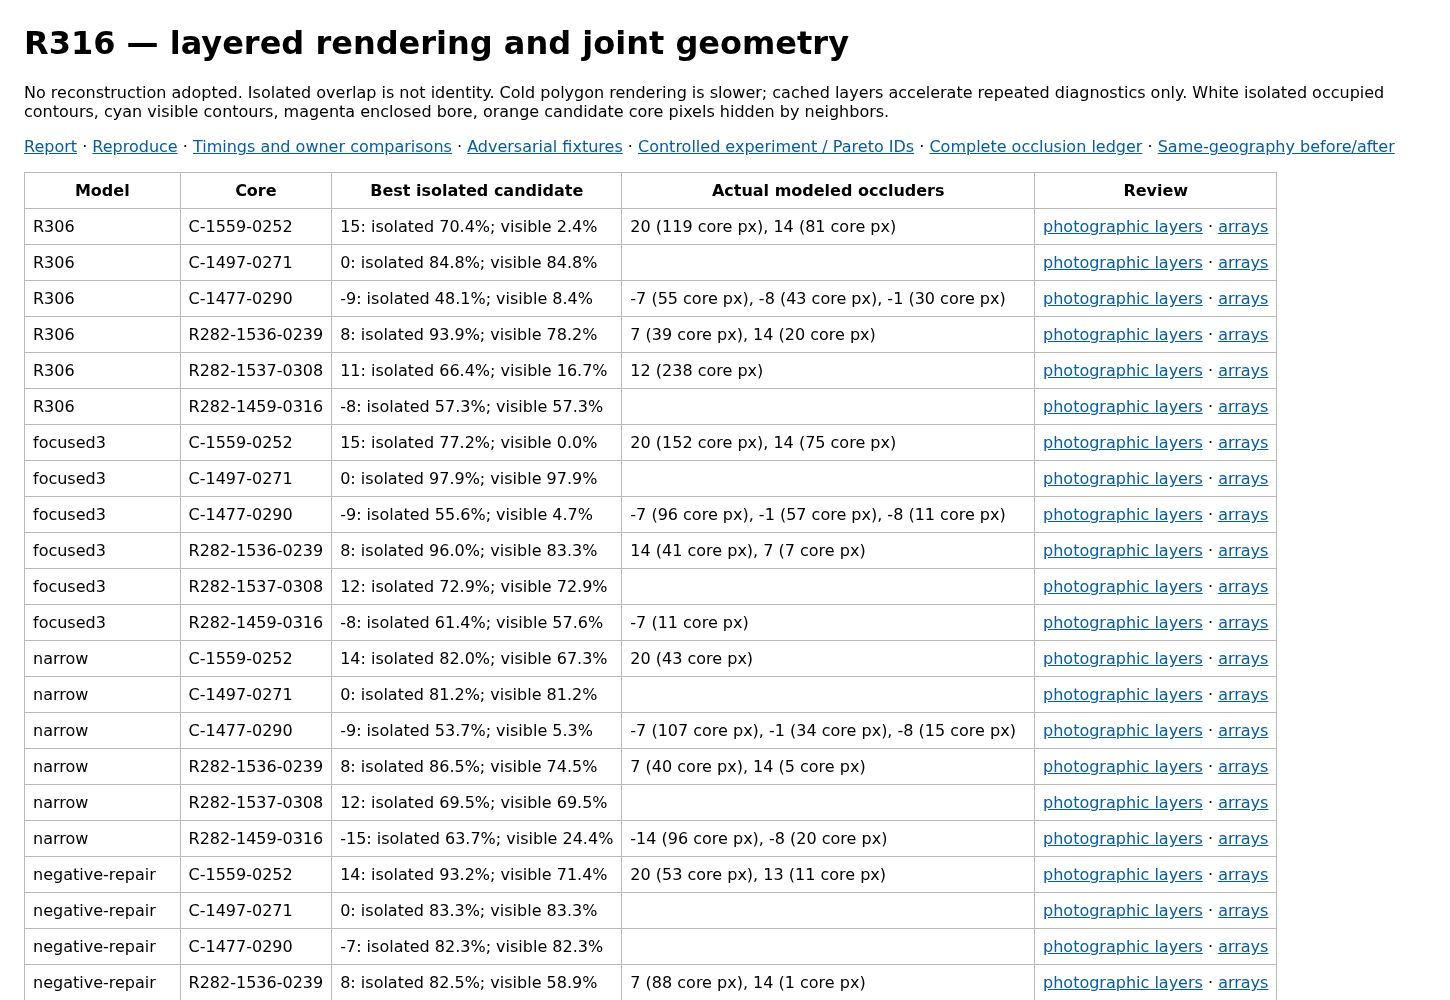
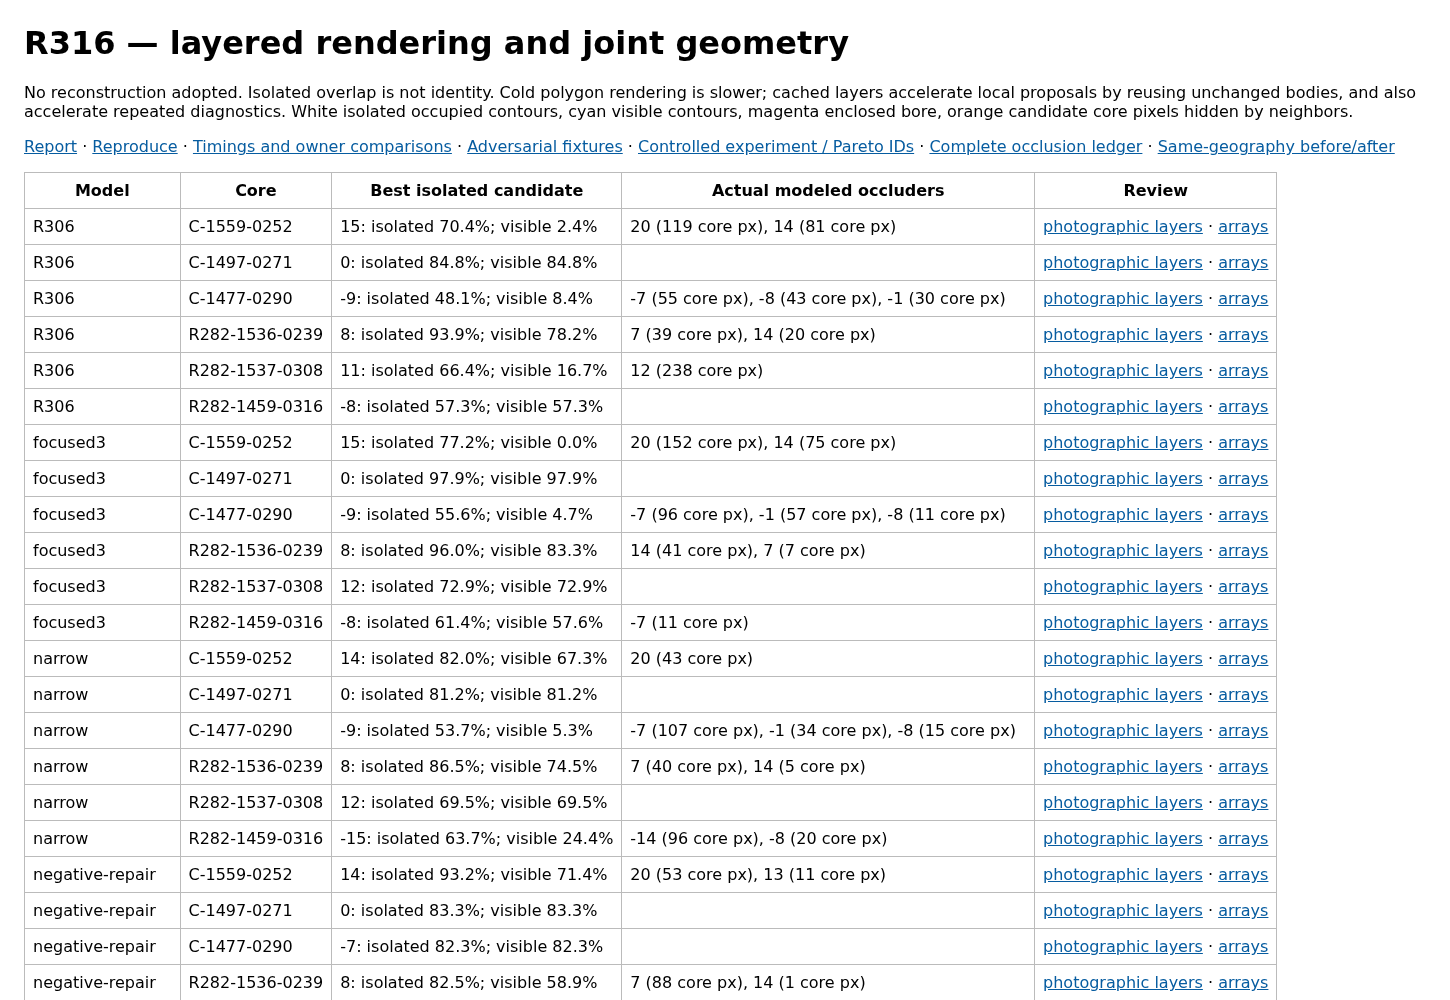
R316: record verified delivery and clarify local layer reuse

Changed region(s): [[0.031, 0.062, 0.9621, 0.124]]

diff --git a/photo2/r316/results/index.html b/photo2/r316/results/index.html
@@ -1,1 +1,1 @@
-<!doctype html><html><head><meta charset="utf-8"><meta name="viewport" content="width=device-width"><title>R316 layered geometry</title><style>body{font:16px system-ui;max-width:1400px;margin:24px}table{border-collapse:collapse}td,th{border:1px solid #bbb;padding:8px}img{max-width:100%}a{color:#065ca0}@media(max-width:700px){table,tr,td{display:block}th{display:none}tr{margin-bottom:16px}body{margin:12px}}</style></head><body><h1>R316 — layered rendering and joint geometry</h1><p>No reconstruction adopted. Isolated overlap is not identity. Cold polygon rendering is slower; cached layers accelerate repeated diagnostics only. White isolated occupied contours, cyan visible contours, magenta enclosed bore, orange candidate core pixels hidden by neighbors.</p><p><a href="../../R316_REPORT.md">Report</a> · <a href="../../R316_REPRODUCE.md">Reproduce</a> · <a href="benchmarks.json">Timings and owner comparisons</a> · <a href="fixtures.json">Adversarial fixtures</a> · <a href="experiment.json">Controlled experiment / Pareto IDs</a> · <a href="ledger.json.gz">Complete occlusion ledger</a> · <a href="review/before-after.png">Same-geography before/after</a></p><table><tr><th>Model</th><th>Core</th><th>Best isolated candidate</th><th>Actual modeled occluders</th><th>Review</th></tr><tr><td>R306</td><td>C-1559-0252</td><td>15: isolated 70.4%; visible 2.4%</td><td>20 (119 core px), 14 (81 core px)</td><td><a href="review/R306-5.png">photographic layers</a> · <a href="review/R306-5.npz">arrays</a></td></tr><tr><td>R306</td><td>C-1497-0271</td><td>0: isolated 84.8%; visible 84.8%</td><td></td><td><a href="review/R306-0.png">photographic layers</a> · <a href="review/R306-0.npz">arrays</a></td></tr><tr><td>R306</td><td>C-1477-0290</td><td>-9: isolated 48.1%; visible 8.4%</td><td>-7 (55 core px), -8 (43 core px), -1 (30 core px)</td><td><a href="review/R306-1.png">photographic layers</a> · <a href="review/R306-1.npz">arrays</a></td></tr><tr><td>R306</td><td>R282-1536-0239</td><td>8: isolated 93.9%; visible 78.2%</td><td>7 (39 core px), 14 (20 core px)</td><td><a href="review/R306-3.png">photographic layers</a> · <a href="review/R306-3.npz">arrays</a></td></tr><tr><td>R306</td><td>R282-1537-0308</td><td>11: isolated 66.4%; visible 16.7%</td><td>12 (238 core px)</td><td><a href="review/R306-4.png">photographic layers</a> · <a href="review/R306-4.npz">arrays</a></td></tr><tr><td>R306</td><td>R282-1459-0316</td><td>-8: isolated 57.3%; visible 57.3%</td><td></td><td><a href="review/R306-2.png">photographic layers</a> · <a href="review/R306-2.npz">arrays</a></td></tr><tr><td>focused3</td><td>C-1559-0252</td><td>15: isolated 77.2%; visible 0.0%</td><td>20 (152 core px), 14 (75 core px)</td><td><a href="review/focused3-5.png">photographic layers</a> · <a href="review/focused3-5.npz">arrays</a></td></tr><tr><td>focused3</td><td>C-1497-0271</td><td>0: isolated 97.9%; visible 97.9%</td><td></td><td><a href="review/focused3-0.png">photographic layers</a> · <a href="review/focused3-0.npz">arrays</a></td></tr><tr><td>focused3</td><td>C-1477-0290</td><td>-9: isolated 55.6%; visible 4.7%</td><td>-7 (96 core px), -1 (57 core px), -8 (11 core px)</td><td><a href="review/focused3-1.png">photographic layers</a> · <a href="review/focused3-1.npz">arrays</a></td></tr><tr><td>focused3</td><td>R282-1536-0239</td><td>8: isolated 96.0%; visible 83.3%</td><td>14 (41 core px), 7 (7 core px)</td><td><a href="review/focused3-3.png">photographic layers</a> · <a href="review/focused3-3.npz">arrays</a></td></tr><tr><td>focused3</td><td>R282-1537-0308</td><td>12: isolated 72.9%; visible 72.9%</td><td></td><td><a href="review/focused3-4.png">photographic layers</a> · <a href="review/focused3-4.npz">arrays</a></td></tr><tr><td>focused3</td><td>R282-1459-0316</td><td>-8: isolated 61.4%; visible 57.6%</td><td>-7 (11 core px)</td><td><a href="review/focused3-2.png">photographic layers</a> · <a href="review/focused3-2.npz">arrays</a></td></tr><tr><td>narrow</td><td>C-1559-0252</td><td>14: isolated 82.0%; visible 67.3%</td><td>20 (43 core px)</td><td><a href="review/narrow-5.png">photographic layers</a> · <a href="review/narrow-5.npz">arrays</a></td></tr><tr><td>narrow</td><td>C-1497-0271</td><td>0: isolated 81.2%; visible 81.2%</td><td></td><td><a href="review/narrow-0.png">photographic layers</a> · <a href="review/narrow-0.npz">arrays</a></td></tr><tr><td>narrow</td><td>C-1477-0290</td><td>-9: isolated 53.7%; visible 5.3%</td><td>-7 (107 core px), -1 (34 core px), -8 (15 core px)</td><td><a href="review/narrow-1.png">photographic layers</a> · <a href="review/narrow-1.npz">arrays</a></td></tr><tr><td>narrow</td><td>R282-1536-0239</td><td>8: isolated 86.5%; visible 74.5%</td><td>7 (40 core px), 14 (5 core px)</td><td><a href="review/narrow-3.png">photographic layers</a> · <a href="review/narrow-3.npz">arrays</a></td></tr><tr><td>narrow</td><td>R282-1537-0308</td><td>12: isolated 69.5%; visible 69.5%</td><td></td><td><a href="review/narrow-4.png">photographic layers</a> · <a href="review/narrow-4.npz">arrays</a></td></tr><tr><td>narrow</td><td>R282-1459-0316</td><td>-15: isolated 63.7%; visible 24.4%</td><td>-14 (96 core px), -8 (20 core px)</td><td><a href="review/narrow-2.png">photographic layers</a> · <a href="review/narrow-2.npz">arrays</a></td></tr><tr><td>negative-repair</td><td>C-1559-0252</td><td>14: isolated 93.2%; visible 71.4%</td><td>20 (53 core px), 13 (11 core px)</td><td><a href="review/negative-repair-5.png">photographic layers</a> · <a href="review/negative-repair-5.npz">arrays</a></td></tr><tr><td>negative-repair</td><td>C-1497-0271</td><td>0: isolated 83.3%; visible 83.3%</td><td></td><td><a href="review/negative-repair-0.png">photographic layers</a> · <a href="review/negative-repair-0.npz">arrays</a></td></tr><tr><td>negative-repair</td><td>C-1477-0290</td><td>-7: isolated 82.3%; visible 82.3%</td><td></td><td><a href="review/negative-repair-1.png">photographic layers</a> · <a href="review/negative-repair-1.npz">arrays</a></td></tr><tr><td>negative-repair</td><td>R282-1536-0239</td><td>8: isolated 82.5%; visible 58.9%</td><td>7 (88 core px), 14 (1 core px)</td><td><a href="review/negative-repair-3.png">photographic layers</a> · <a href="review/negative-repair-3.npz">arrays</a></td></tr><tr><td>negative-repair</td><td>R282-1537-0308</td><td>12: isolated 63.3%; visible 63.3%</td><td></td><td><a href="review/negative-repair-4.png">photographic layers</a> · <a href="review/negative-repair-4.npz">arrays</a></td></tr><tr><td>negative-repair</td><td>R282-1459-0316</td><td>-15: isolated 84.1%; visible 22.4%</td><td>-14 (157 core px), -8 (25 core px)</td><td><a href="review/negative-repair-2.png">photographic layers</a> · <a href="review/negative-repair-2.npz">arrays</a></td></tr><tr><td>positive-recovery</td><td>C-1559-0252</td><td>14: isolated 99.7%; visible 78.6%</td><td>20 (62 core px)</td><td><a href="review/positive-recovery-5.png">photographic layers</a> · <a href="review/positive-recovery-5.npz">arrays</a></td></tr><tr><td>positive-recovery</td><td>C-1497-0271</td><td>0: isolated 85.1%; visible 85.1%</td><td></td><td><a href="review/positive-recovery-0.png">photographic layers</a> · <a href="review/positive-recovery-0.npz">arrays</a></td></tr><tr><td>positive-recovery</td><td>C-1477-0290</td><td>-7: isolated 81.1%; visible 81.1%</td><td></td><td><a href="review/positive-recovery-1.png">photographic layers</a> · <a href="review/positive-recovery-1.npz">arrays</a></td></tr><tr><td>positive-recovery</td><td>R282-1536-0239</td><td>8: isolated 88.9%; visible 77.7%</td><td>7 (38 core px), 14 (4 core px)</td><td><a href="review/positive-recovery-3.png">photographic layers</a> · <a href="review/positive-recovery-3.npz">arrays</a></td></tr><tr><td>positive-recovery</td><td>R282-1537-0308</td><td>12: isolated 63.3%; visible 63.3%</td><td></td><td><a href="review/positive-recovery-4.png">photographic layers</a> · <a href="review/positive-recovery-4.npz">arrays</a></td></tr><tr><td>positive-recovery</td><td>R282-1459-0316</td><td>-15: isolated 83.7%; visible 22.4%</td><td>-14 (157 core px), -8 (24 core px)</td><td><a href="review/positive-recovery-2.png">photographic layers</a> · <a href="review/positive-recovery-2.npz">arrays</a></td></tr><tr><td>joint-recovery</td><td>C-1559-0252</td><td>14: isolated 99.7%; visible 78.6%</td><td>20 (62 core px)</td><td><a href="review/joint-recovery-5.png">photographic layers</a> · <a href="review/joint-recovery-5.npz">arrays</a></td></tr><tr><td>joint-recovery</td><td>C-1497-0271</td><td>0: isolated 87.9%; visible 87.9%</td><td></td><td><a href="review/joint-recovery-0.png">photographic layers</a> · <a href="review/joint-recovery-0.npz">arrays</a></td></tr><tr><td>joint-recovery</td><td>C-1477-0290</td><td>-7: isolated 85.7%; visible 85.1%</td><td>-1 (2 core px)</td><td><a href="review/joint-recovery-1.png">photographic layers</a> · <a href="review/joint-recovery-1.npz">arrays</a></td></tr><tr><td>joint-recovery</td><td>R282-1536-0239</td><td>8: isolated 88.9%; visible 77.7%</td><td>7 (38 core px), 14 (4 core px)</td><td><a href="review/joint-recovery-3.png">photographic layers</a> · <a href="review/joint-recovery-3.npz">arrays</a></td></tr><tr><td>joint-recovery</td><td>R282-1537-0308</td><td>12: isolated 63.3%; visible 63.3%</td><td></td><td><a href="review/joint-recovery-4.png">photographic layers</a> · <a href="review/joint-recovery-4.npz">arrays</a></td></tr><tr><td>joint-recovery</td><td>R282-1459-0316</td><td>-15: isolated 98.6%; visible 3.1%</td><td>-14 (212 core px), -8 (56 core px), -7 (14 core px)</td><td><a href="review/joint-recovery-2.png">photographic layers</a> · <a href="review/joint-recovery-2.npz">arrays</a></td></tr></table><img src="review/before-after.png"></body></html>
+<!doctype html><html><head><meta charset="utf-8"><meta name="viewport" content="width=device-width"><title>R316 layered geometry</title><style>body{font:16px system-ui;max-width:1400px;margin:24px}table{border-collapse:collapse}td,th{border:1px solid #bbb;padding:8px}img{max-width:100%}a{color:#065ca0}@media(max-width:700px){table,tr,td{display:block}th{display:none}tr{margin-bottom:16px}body{margin:12px}}</style></head><body><h1>R316 — layered rendering and joint geometry</h1><p>No reconstruction adopted. Isolated overlap is not identity. Cold polygon rendering is slower; cached layers accelerate local proposals by reusing unchanged bodies, and also accelerate repeated diagnostics. White isolated occupied contours, cyan visible contours, magenta enclosed bore, orange candidate core pixels hidden by neighbors.</p><p><a href="../../R316_REPORT.md">Report</a> · <a href="../../R316_REPRODUCE.md">Reproduce</a> · <a href="benchmarks.json">Timings and owner comparisons</a> · <a href="fixtures.json">Adversarial fixtures</a> · <a href="experiment.json">Controlled experiment / Pareto IDs</a> · <a href="ledger.json.gz">Complete occlusion ledger</a> · <a href="review/before-after.png">Same-geography before/after</a></p><table><tr><th>Model</th><th>Core</th><th>Best isolated candidate</th><th>Actual modeled occluders</th><th>Review</th></tr><tr><td>R306</td><td>C-1559-0252</td><td>15: isolated 70.4%; visible 2.4%</td><td>20 (119 core px), 14 (81 core px)</td><td><a href="review/R306-5.png">photographic layers</a> · <a href="review/R306-5.npz">arrays</a></td></tr><tr><td>R306</td><td>C-1497-0271</td><td>0: isolated 84.8%; visible 84.8%</td><td></td><td><a href="review/R306-0.png">photographic layers</a> · <a href="review/R306-0.npz">arrays</a></td></tr><tr><td>R306</td><td>C-1477-0290</td><td>-9: isolated 48.1%; visible 8.4%</td><td>-7 (55 core px), -8 (43 core px), -1 (30 core px)</td><td><a href="review/R306-1.png">photographic layers</a> · <a href="review/R306-1.npz">arrays</a></td></tr><tr><td>R306</td><td>R282-1536-0239</td><td>8: isolated 93.9%; visible 78.2%</td><td>7 (39 core px), 14 (20 core px)</td><td><a href="review/R306-3.png">photographic layers</a> · <a href="review/R306-3.npz">arrays</a></td></tr><tr><td>R306</td><td>R282-1537-0308</td><td>11: isolated 66.4%; visible 16.7%</td><td>12 (238 core px)</td><td><a href="review/R306-4.png">photographic layers</a> · <a href="review/R306-4.npz">arrays</a></td></tr><tr><td>R306</td><td>R282-1459-0316</td><td>-8: isolated 57.3%; visible 57.3%</td><td></td><td><a href="review/R306-2.png">photographic layers</a> · <a href="review/R306-2.npz">arrays</a></td></tr><tr><td>focused3</td><td>C-1559-0252</td><td>15: isolated 77.2%; visible 0.0%</td><td>20 (152 core px), 14 (75 core px)</td><td><a href="review/focused3-5.png">photographic layers</a> · <a href="review/focused3-5.npz">arrays</a></td></tr><tr><td>focused3</td><td>C-1497-0271</td><td>0: isolated 97.9%; visible 97.9%</td><td></td><td><a href="review/focused3-0.png">photographic layers</a> · <a href="review/focused3-0.npz">arrays</a></td></tr><tr><td>focused3</td><td>C-1477-0290</td><td>-9: isolated 55.6%; visible 4.7%</td><td>-7 (96 core px), -1 (57 core px), -8 (11 core px)</td><td><a href="review/focused3-1.png">photographic layers</a> · <a href="review/focused3-1.npz">arrays</a></td></tr><tr><td>focused3</td><td>R282-1536-0239</td><td>8: isolated 96.0%; visible 83.3%</td><td>14 (41 core px), 7 (7 core px)</td><td><a href="review/focused3-3.png">photographic layers</a> · <a href="review/focused3-3.npz">arrays</a></td></tr><tr><td>focused3</td><td>R282-1537-0308</td><td>12: isolated 72.9%; visible 72.9%</td><td></td><td><a href="review/focused3-4.png">photographic layers</a> · <a href="review/focused3-4.npz">arrays</a></td></tr><tr><td>focused3</td><td>R282-1459-0316</td><td>-8: isolated 61.4%; visible 57.6%</td><td>-7 (11 core px)</td><td><a href="review/focused3-2.png">photographic layers</a> · <a href="review/focused3-2.npz">arrays</a></td></tr><tr><td>narrow</td><td>C-1559-0252</td><td>14: isolated 82.0%; visible 67.3%</td><td>20 (43 core px)</td><td><a href="review/narrow-5.png">photographic layers</a> · <a href="review/narrow-5.npz">arrays</a></td></tr><tr><td>narrow</td><td>C-1497-0271</td><td>0: isolated 81.2%; visible 81.2%</td><td></td><td><a href="review/narrow-0.png">photographic layers</a> · <a href="review/narrow-0.npz">arrays</a></td></tr><tr><td>narrow</td><td>C-1477-0290</td><td>-9: isolated 53.7%; visible 5.3%</td><td>-7 (107 core px), -1 (34 core px), -8 (15 core px)</td><td><a href="review/narrow-1.png">photographic layers</a> · <a href="review/narrow-1.npz">arrays</a></td></tr><tr><td>narrow</td><td>R282-1536-0239</td><td>8: isolated 86.5%; visible 74.5%</td><td>7 (40 core px), 14 (5 core px)</td><td><a href="review/narrow-3.png">photographic layers</a> · <a href="review/narrow-3.npz">arrays</a></td></tr><tr><td>narrow</td><td>R282-1537-0308</td><td>12: isolated 69.5%; visible 69.5%</td><td></td><td><a href="review/narrow-4.png">photographic layers</a> · <a href="review/narrow-4.npz">arrays</a></td></tr><tr><td>narrow</td><td>R282-1459-0316</td><td>-15: isolated 63.7%; visible 24.4%</td><td>-14 (96 core px), -8 (20 core px)</td><td><a href="review/narrow-2.png">photographic layers</a> · <a href="review/narrow-2.npz">arrays</a></td></tr><tr><td>negative-repair</td><td>C-1559-0252</td><td>14: isolated 93.2%; visible 71.4%</td><td>20 (53 core px), 13 (11 core px)</td><td><a href="review/negative-repair-5.png">photographic layers</a> · <a href="review/negative-repair-5.npz">arrays</a></td></tr><tr><td>negative-repair</td><td>C-1497-0271</td><td>0: isolated 83.3%; visible 83.3%</td><td></td><td><a href="review/negative-repair-0.png">photographic layers</a> · <a href="review/negative-repair-0.npz">arrays</a></td></tr><tr><td>negative-repair</td><td>C-1477-0290</td><td>-7: isolated 82.3%; visible 82.3%</td><td></td><td><a href="review/negative-repair-1.png">photographic layers</a> · <a href="review/negative-repair-1.npz">arrays</a></td></tr><tr><td>negative-repair</td><td>R282-1536-0239</td><td>8: isolated 82.5%; visible 58.9%</td><td>7 (88 core px), 14 (1 core px)</td><td><a href="review/negative-repair-3.png">photographic layers</a> · <a href="review/negative-repair-3.npz">arrays</a></td></tr><tr><td>negative-repair</td><td>R282-1537-0308</td><td>12: isolated 63.3%; visible 63.3%</td><td></td><td><a href="review/negative-repair-4.png">photographic layers</a> · <a href="review/negative-repair-4.npz">arrays</a></td></tr><tr><td>negative-repair</td><td>R282-1459-0316</td><td>-15: isolated 84.1%; visible 22.4%</td><td>-14 (157 core px), -8 (25 core px)</td><td><a href="review/negative-repair-2.png">photographic layers</a> · <a href="review/negative-repair-2.npz">arrays</a></td></tr><tr><td>positive-recovery</td><td>C-1559-0252</td><td>14: isolated 99.7%; visible 78.6%</td><td>20 (62 core px)</td><td><a href="review/positive-recovery-5.png">photographic layers</a> · <a href="review/positive-recovery-5.npz">arrays</a></td></tr><tr><td>positive-recovery</td><td>C-1497-0271</td><td>0: isolated 85.1%; visible 85.1%</td><td></td><td><a href="review/positive-recovery-0.png">photographic layers</a> · <a href="review/positive-recovery-0.npz">arrays</a></td></tr><tr><td>positive-recovery</td><td>C-1477-0290</td><td>-7: isolated 81.1%; visible 81.1%</td><td></td><td><a href="review/positive-recovery-1.png">photographic layers</a> · <a href="review/positive-recovery-1.npz">arrays</a></td></tr><tr><td>positive-recovery</td><td>R282-1536-0239</td><td>8: isolated 88.9%; visible 77.7%</td><td>7 (38 core px), 14 (4 core px)</td><td><a href="review/positive-recovery-3.png">photographic layers</a> · <a href="review/positive-recovery-3.npz">arrays</a></td></tr><tr><td>positive-recovery</td><td>R282-1537-0308</td><td>12: isolated 63.3%; visible 63.3%</td><td></td><td><a href="review/positive-recovery-4.png">photographic layers</a> · <a href="review/positive-recovery-4.npz">arrays</a></td></tr><tr><td>positive-recovery</td><td>R282-1459-0316</td><td>-15: isolated 83.7%; visible 22.4%</td><td>-14 (157 core px), -8 (24 core px)</td><td><a href="review/positive-recovery-2.png">photographic layers</a> · <a href="review/positive-recovery-2.npz">arrays</a></td></tr><tr><td>joint-recovery</td><td>C-1559-0252</td><td>14: isolated 99.7%; visible 78.6%</td><td>20 (62 core px)</td><td><a href="review/joint-recovery-5.png">photographic layers</a> · <a href="review/joint-recovery-5.npz">arrays</a></td></tr><tr><td>joint-recovery</td><td>C-1497-0271</td><td>0: isolated 87.9%; visible 87.9%</td><td></td><td><a href="review/joint-recovery-0.png">photographic layers</a> · <a href="review/joint-recovery-0.npz">arrays</a></td></tr><tr><td>joint-recovery</td><td>C-1477-0290</td><td>-7: isolated 85.7%; visible 85.1%</td><td>-1 (2 core px)</td><td><a href="review/joint-recovery-1.png">photographic layers</a> · <a href="review/joint-recovery-1.npz">arrays</a></td></tr><tr><td>joint-recovery</td><td>R282-1536-0239</td><td>8: isolated 88.9%; visible 77.7%</td><td>7 (38 core px), 14 (4 core px)</td><td><a href="review/joint-recovery-3.png">photographic layers</a> · <a href="review/joint-recovery-3.npz">arrays</a></td></tr><tr><td>joint-recovery</td><td>R282-1537-0308</td><td>12: isolated 63.3%; visible 63.3%</td><td></td><td><a href="review/joint-recovery-4.png">photographic layers</a> · <a href="review/joint-recovery-4.npz">arrays</a></td></tr><tr><td>joint-recovery</td><td>R282-1459-0316</td><td>-15: isolated 98.6%; visible 3.1%</td><td>-14 (212 core px), -8 (56 core px), -7 (14 core px)</td><td><a href="review/joint-recovery-2.png">photographic layers</a> · <a href="review/joint-recovery-2.npz">arrays</a></td></tr></table><img src="review/before-after.png"></body></html>

diff --git a/photo2/r316/review.py b/photo2/r316/review.py
@@ -63,6 +63,6 @@ def main():
     canvas=Image.new('RGB',(ims[0].width,sum(im.height for im in ims)));y=0
     for im in ims:canvas.paste(im,(0,y));y+=im.height
     canvas.save(dest/'before-after.png')
-    (OUT/'index.html').write_text('<!doctype html><html><head><meta charset="utf-8"><meta name="viewport" content="width=device-width"><title>R316 layered geometry</title><style>body{font:16px system-ui;max-width:1400px;margin:24px}table{border-collapse:collapse}td,th{border:1px solid #bbb;padding:8px}img{max-width:100%}a{color:#065ca0}@media(max-width:700px){table,tr,td{display:block}th{display:none}tr{margin-bottom:16px}body{margin:12px}}</style></head><body><h1>R316 — layered rendering and joint geometry</h1><p>No reconstruction adopted. Isolated overlap is not identity. Cold polygon rendering is slower; cached layers accelerate repeated diagnostics only. White isolated occupied contours, cyan visible contours, magenta enclosed bore, orange candidate core pixels hidden by neighbors.</p><p><a href="../../R316_REPORT.md">Report</a> · <a href="../../R316_REPRODUCE.md">Reproduce</a> · <a href="benchmarks.json">Timings and owner comparisons</a> · <a href="fixtures.json">Adversarial fixtures</a> · <a href="experiment.json">Controlled experiment / Pareto IDs</a> · <a href="ledger.json.gz">Complete occlusion ledger</a> · <a href="review/before-after.png">Same-geography before/after</a></p><table><tr><th>Model</th><th>Core</th><th>Best isolated candidate</th><th>Actual modeled occluders</th><th>Review</th></tr>'+''.join(htmlrows)+'</table><img src="review/before-after.png"></body></html>')
+    (OUT/'index.html').write_text('<!doctype html><html><head><meta charset="utf-8"><meta name="viewport" content="width=device-width"><title>R316 layered geometry</title><style>body{font:16px system-ui;max-width:1400px;margin:24px}table{border-collapse:collapse}td,th{border:1px solid #bbb;padding:8px}img{max-width:100%}a{color:#065ca0}@media(max-width:700px){table,tr,td{display:block}th{display:none}tr{margin-bottom:16px}body{margin:12px}}</style></head><body><h1>R316 — layered rendering and joint geometry</h1><p>No reconstruction adopted. Isolated overlap is not identity. Cold polygon rendering is slower; cached layers accelerate local proposals by reusing unchanged bodies, and also accelerate repeated diagnostics. White isolated occupied contours, cyan visible contours, magenta enclosed bore, orange candidate core pixels hidden by neighbors.</p><p><a href="../../R316_REPORT.md">Report</a> · <a href="../../R316_REPRODUCE.md">Reproduce</a> · <a href="benchmarks.json">Timings and owner comparisons</a> · <a href="fixtures.json">Adversarial fixtures</a> · <a href="experiment.json">Controlled experiment / Pareto IDs</a> · <a href="ledger.json.gz">Complete occlusion ledger</a> · <a href="review/before-after.png">Same-geography before/after</a></p><table><tr><th>Model</th><th>Core</th><th>Best isolated candidate</th><th>Actual modeled occluders</th><th>Review</th></tr>'+''.join(htmlrows)+'</table><img src="review/before-after.png"></body></html>')
     save(OUT/'review-receipt.json',dict(seconds=time.monotonic()-began,rows=len(ledger),original_photo_panels=len(manifest)))
 if __name__=='__main__':main()
